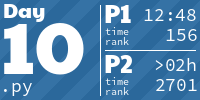
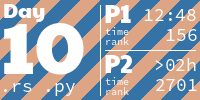
Add day 10

diff --git a/2023/10/10.rs b/2023/10/10.rs
@@ -1,0 +1,69 @@
+use std::{io::{stdin, Read}, collections::{VecDeque, HashSet}};
+
+use itertools::{Itertools, izip, iproduct};
+
+const DIR: [(i32, i32); 4] = [(0, 1), (1, 0), (-1, 0), (0, -1)];
+const ALLOW_TO: [&str; 4] = ["-7J", "|JL", "|F7", "-FL"];
+const ALLOW_FROM: [&str; 4] = ["-FLS", "|F7S", "|JLS", "-7JS"];
+
+fn in_bounds(y: i32, x: i32, ys: usize, xs: usize) -> Option<(usize, usize)> {
+    match (usize::try_from(y), usize::try_from(x)) {
+        (Ok(y2), Ok(x2)) if y2 < ys && x2 < xs => Some((y2, x2)),
+        _ => None,
+    }
+}
+
+fn main() {
+    let mut input = String::new();
+    stdin().read_to_string(&mut input).unwrap();
+    let lines: Vec<&str> = input.lines().collect_vec();
+    let (ys, xs) = (lines.len(), lines.get(0).unwrap().len());
+
+    let start = input.lines()
+        .find_position(|line| line.contains('S'))
+        .map(|o| (o.0, o.1.find('S').unwrap(), 0));
+
+    let mut q = VecDeque::from([start.unwrap()]);
+    println!("{:?}", q);
+
+    let mut visited = HashSet::new();
+    let at = |y: usize, x: usize| lines[y].chars().nth(x).unwrap();
+    let mut inside: HashSet<(usize, usize)> = iproduct!(0..ys, 0..xs).collect();
+
+    let mut max_dist = 0;
+    while !q.is_empty() {
+        let (y, x, dist) = q.pop_front().unwrap();
+        visited.insert((y+y+1, x+x+1));
+        inside.remove(&(y, x));
+        max_dist = max_dist.max(dist);
+        for ((dy, dx), to, from) in izip!(DIR, ALLOW_TO, ALLOW_FROM) {
+            if let Some((ya, xa)) = in_bounds(y as i32+dy, x as i32+dx, ys, xs) {
+                if to.contains(at(ya, xa)) && from.contains(at(y, x)) {
+                    if !visited.contains(&(y+ya+1, x+xa+1)) {
+                        visited.insert((y+ya+1, x+xa+1));
+                        q.push_back((ya, xa, dist+1));
+                    }
+                }
+            }
+        }
+    }
+    q.push_back((0, 0, 0));
+
+    while !q.is_empty() {
+        let (y, x, _) = q.pop_front().unwrap();
+        visited.insert((y, x));
+        if let Some((ydiv2, xdiv2)) = in_bounds((y as i32-1)/2, (x as i32-1)/2, ys, xs) {
+            inside.remove(&(ydiv2, xdiv2));
+        }
+        for (dy, dx) in DIR {
+            if let Some((ya, xa)) = in_bounds(y as i32+dy, x as i32+dx, ys*2+1, xs*2+1) {
+                if !visited.contains(&(ya, xa)) {
+                    visited.insert((ya, xa));
+                    q.push_back((ya, xa, 0));
+                }
+            }
+        }
+    }
+
+    println!("{}\n{}", max_dist, inside.len());
+}

diff --git a/README.md b/README.md
@@ -33,7 +33,7 @@
 <a href="2023/09/09.rs">
   <img src=".aoc_tiles/tiles/2023/09.png" width="161px">
 </a>
-<a href="2023/10/10.py">
+<a href="2023/10/10.rs">
   <img src=".aoc_tiles/tiles/2023/10.png" width="161px">
 </a>
 <h1 align="center">
